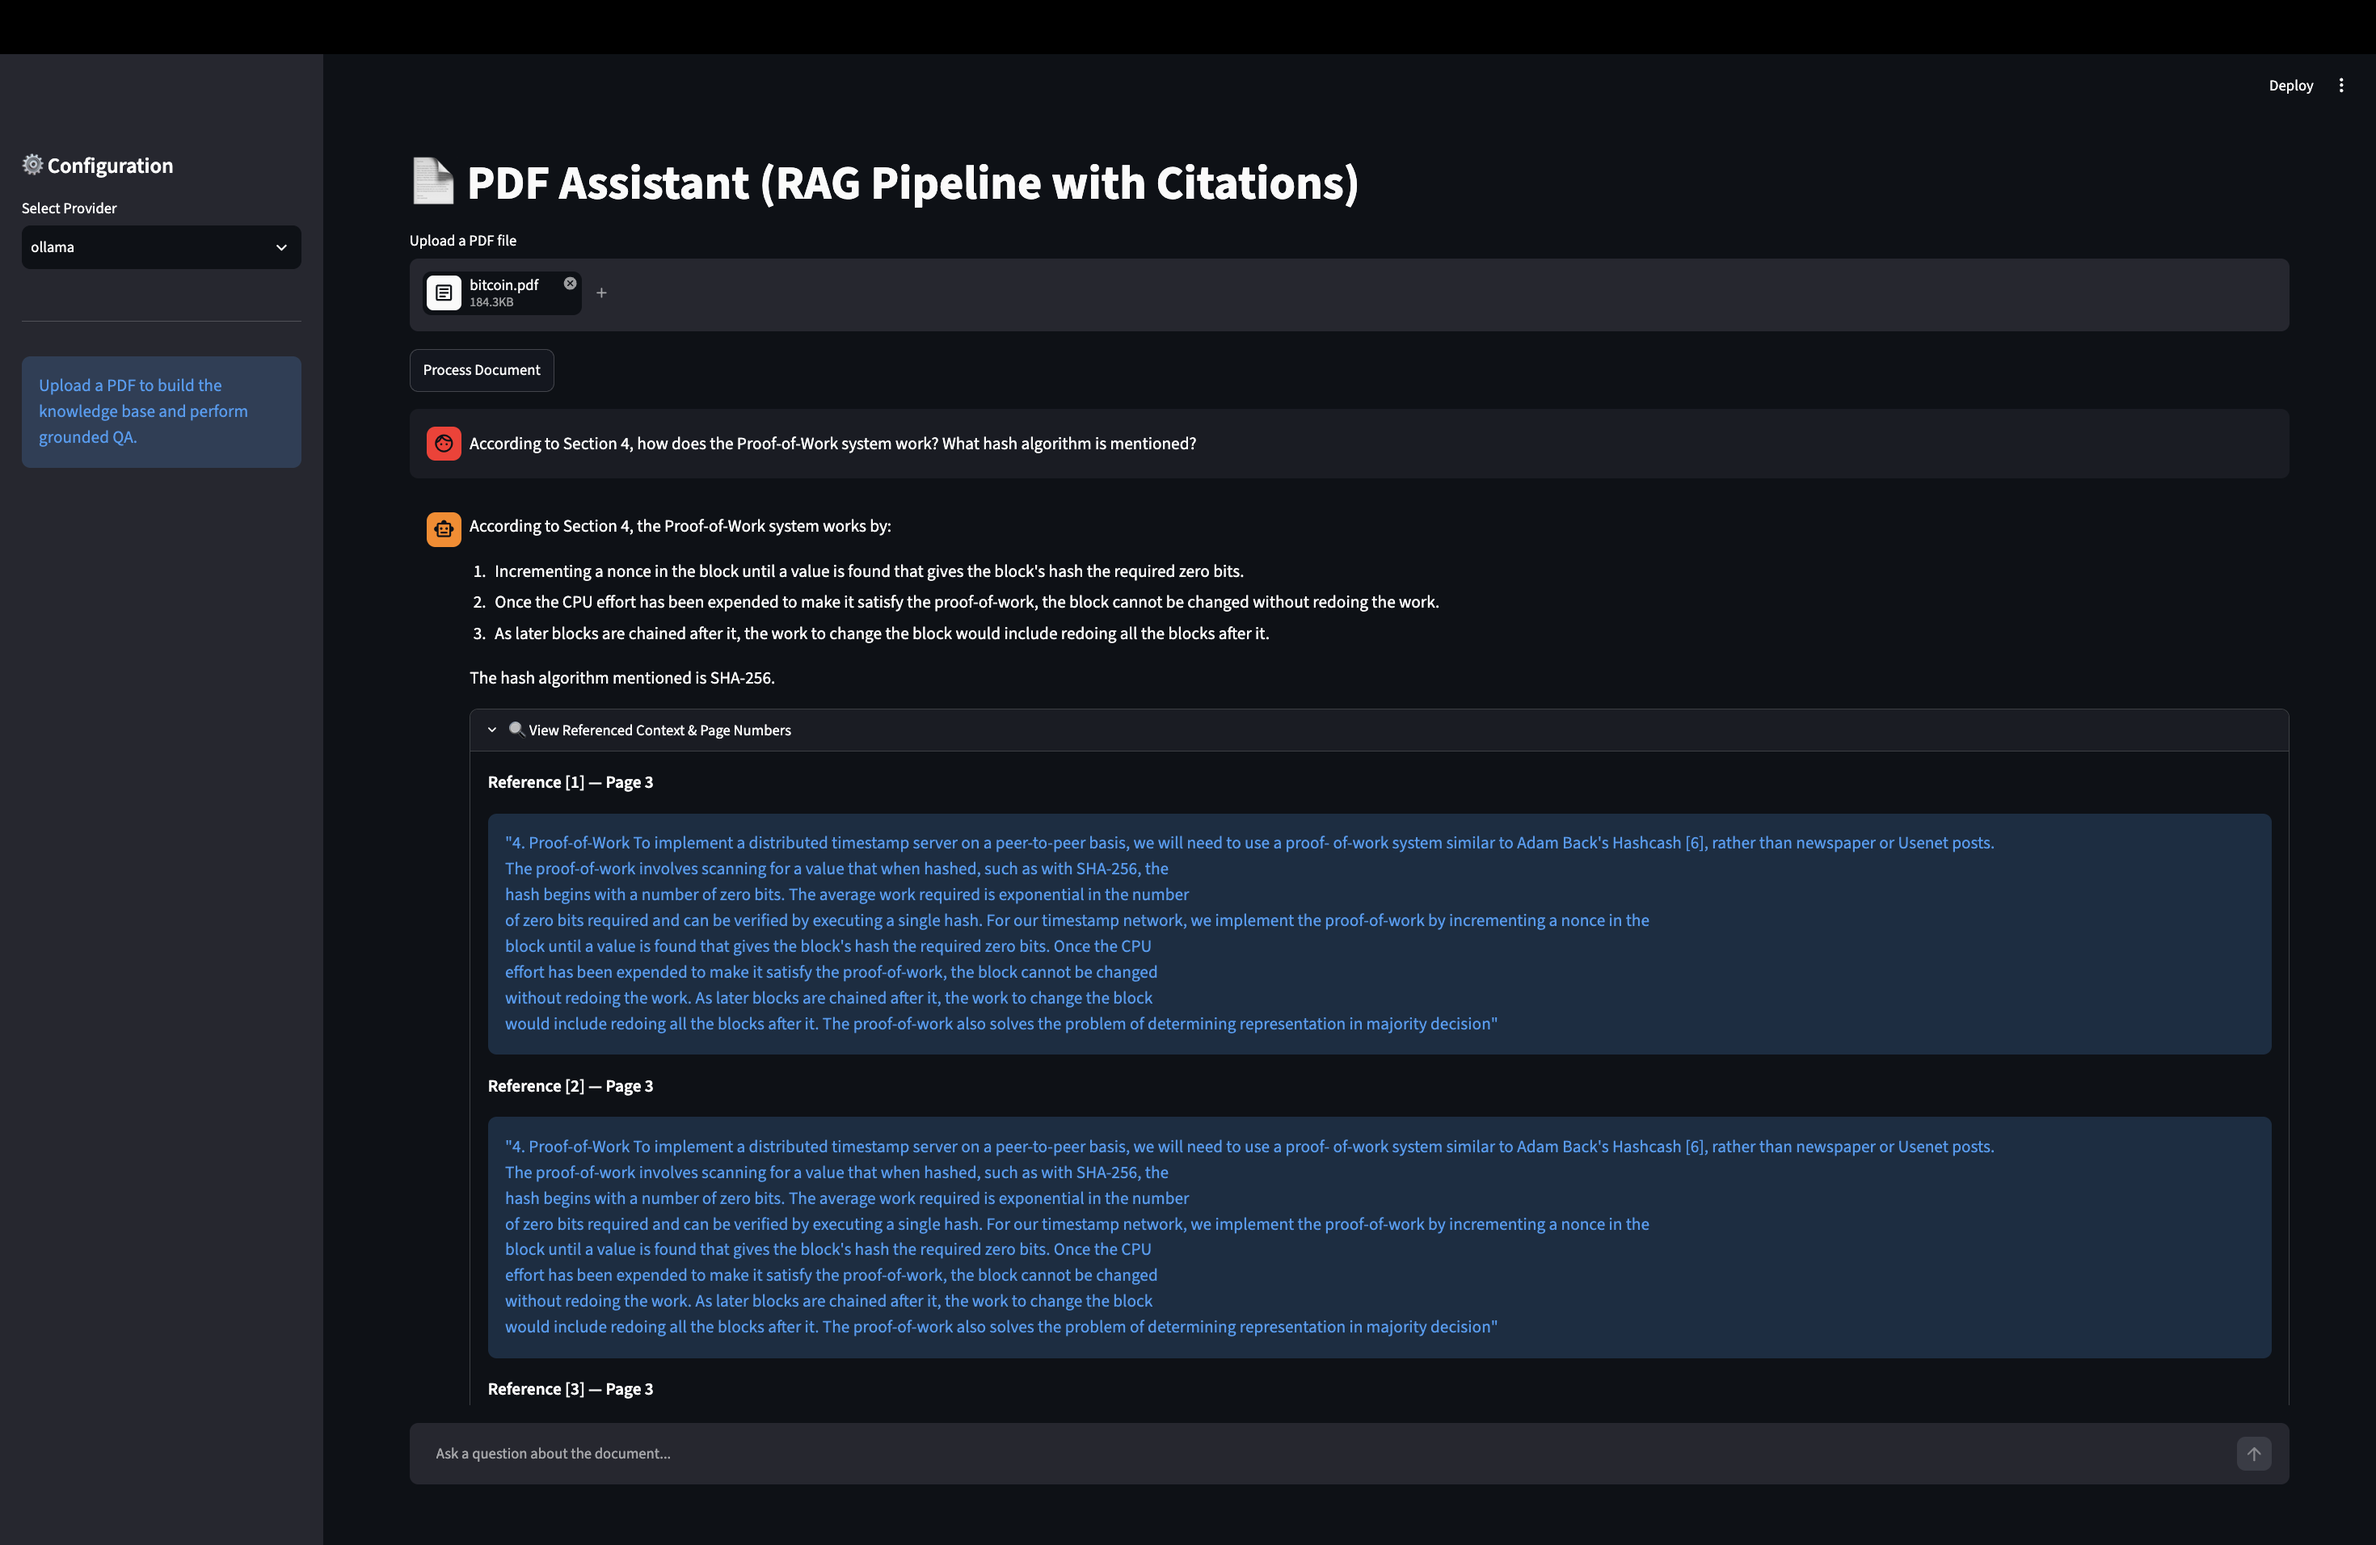
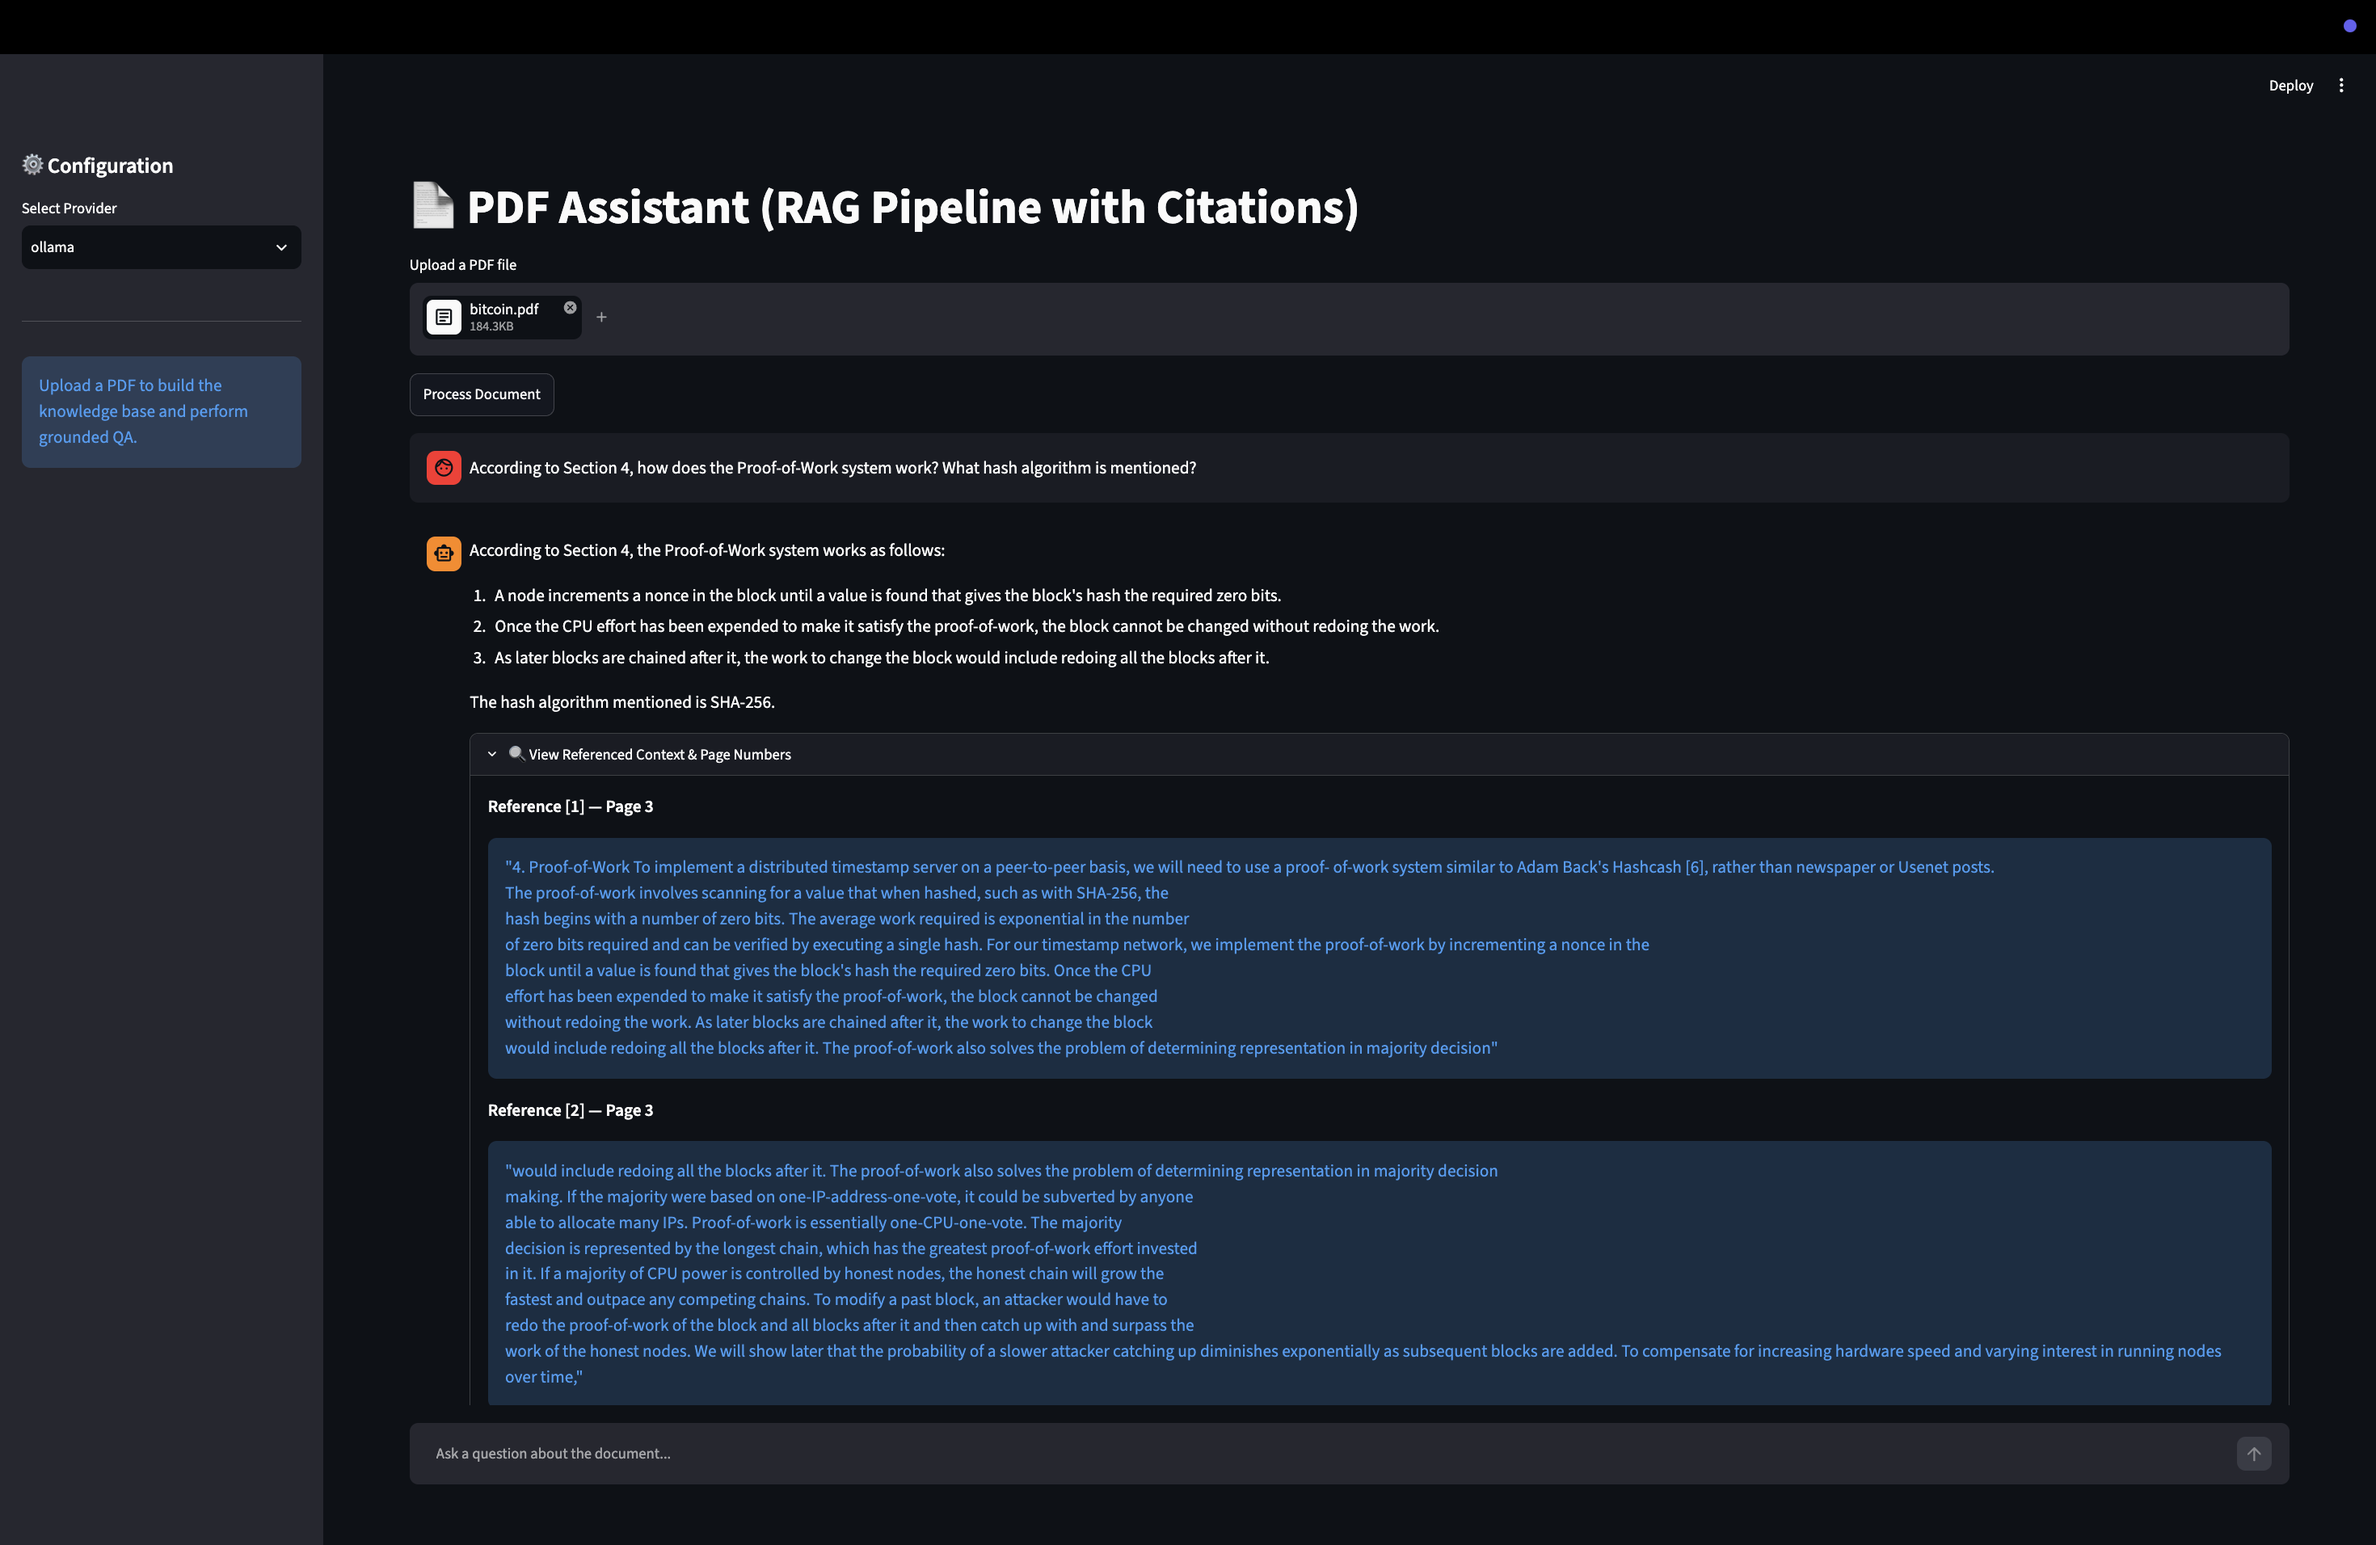
add citation 2

Changed region(s): [[0.1548, 0.0926, 0.9595, 0.9257]]

diff --git a/README.md b/README.md
@@ -28,8 +28,10 @@ A production-ready Retrieval-Augmented Generation (RAG) PDF chatbot built with *
             ▼
 ┌───────────────────────┐
 │     Streamlit UI      │ ──► Multi-turn conversational interface
+│                       │     with Source Citations & page_content
 └───────────────────────┘
 ```
+
 
 ### Milestone Progress
 
@@ -49,7 +51,6 @@ A production-ready Retrieval-Augmented Generation (RAG) PDF chatbot built with *
   - [x] Add sidebar configuration for API keys and model selection.
 
 - [ ] **Phase 4: Production Enhancements (Upcoming)**
-  - [ ] Add source attribution preview (page numbers and text snippets) in chat responses.
   - [ ] Support multi-document uploading and vector store resetting directly from the UI.
   - [ ] Add automated unit tests using `pytest`.
 
